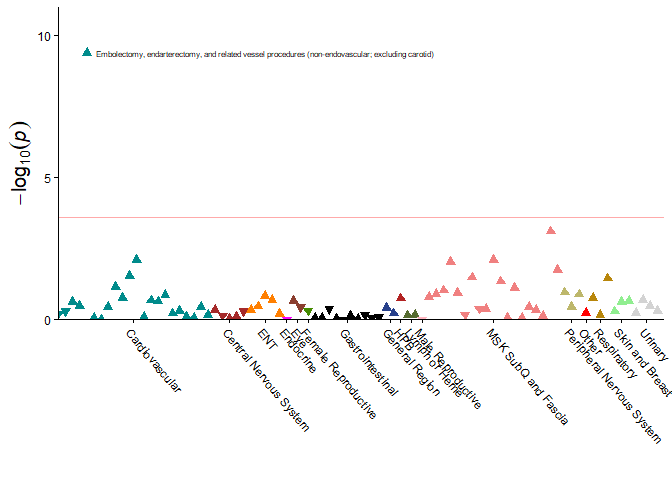
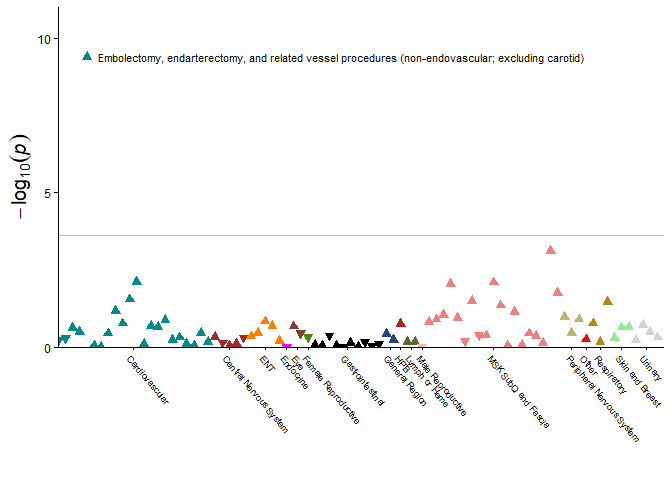
figure labels

diff --git a/README.html b/README.html
@@ -712,7 +712,7 @@ simulated data</p>
 <span id="cb7-7"><a href="#cb7-7" tabindex="-1"></a><span class="co">#&gt; Finding associations...</span></span>
 <span id="cb7-8"><a href="#cb7-8" tabindex="-1"></a><span class="co">#&gt; Compiling results...</span></span>
 <span id="cb7-9"><a href="#cb7-9" tabindex="-1"></a><span class="co">#&gt; Cleaning up...</span></span></code></pre></div>
[2 lines of base64/hex data omitted]
 
 </body>
 </html>

diff --git a/README.md b/README.md
@@ -136,4 +136,4 @@ results <- phewas_ext(data = phewas_df,
 #> Cleaning up...
 ```
 
-<img src="man/figures/README-manhattan-1.png" width="70%" />
+<img src="man/figures/README-manhattan-1.png" width="80%" />
